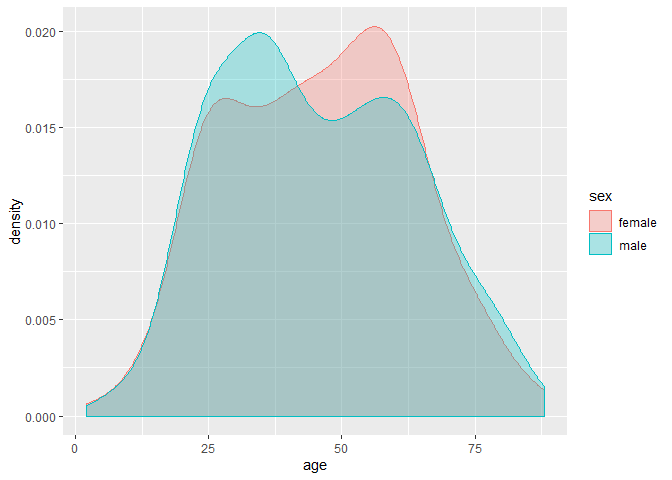
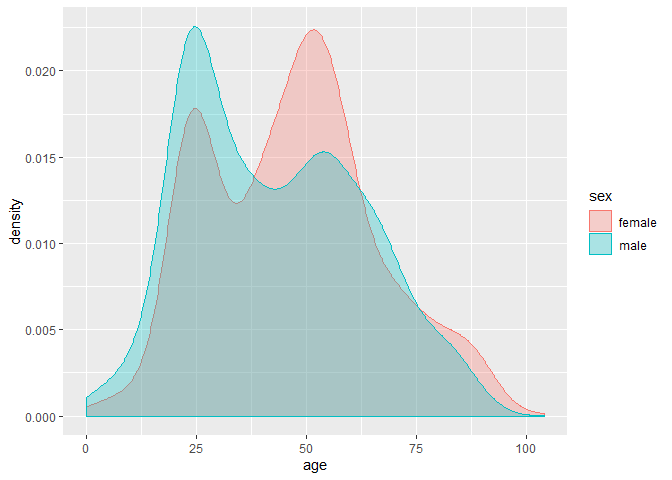
readme

diff --git a/README.md b/README.md
@@ -21,28 +21,26 @@ remotes::install_github("youngwoos/corona19")
 ``` r
 library(corona19)
 
-# state
-state <- getdata("state")
-state
-#> # A tibble: 45 x 11
-#>    date       acc_test acc_negative acc_confirmed acc_released acc_deceased
-#>    <date>        <int>        <int>         <int>        <int>        <int>
-#>  1 2020-03-04   146541       118965          5766           88           35
-#>  2 2020-03-03   136707       102965          5328           41           32
-#>  3 2020-03-02   125851        85484          4812           34           28
-#>  4 2020-03-01   109591        71580          4212           31           22
-#>  5 2020-02-29    94055        55723          3150           28           17
-#>  6 2020-02-28    81167        48593          2337           27           16
-#>  7 2020-02-27    66652        39318          1766           27           13
-#>  8 2020-02-26    53553        31576          1261           24           12
-#>  9 2020-02-25    40304        25447           977           24           12
-#> 10 2020-02-24    32756        20292           833           24            8
-#> # ... with 35 more rows, and 5 more variables: new_test <int>,
-#> #   new_negative <int>, new_confirmed <int>, new_released <int>,
-#> #   new_deceased <int>
+# time
+time <- getdata("time")
+time
+#> # A tibble: 57 x 7
+#>    date        time   test negative confirmed released deceased
+#>    <date>     <int>  <int>    <int>     <int>    <int>    <int>
+#>  1 2020-03-16     0 274504   251297      8236     1137       75
+#>  2 2020-03-15     0 268212   243778      8126      834       75
+#>  3 2020-03-14     0 261335   235615      8086      714       72
+#>  4 2020-03-13     0 248647   222728      7979      510       67
+#>  5 2020-03-12     0 234998   209402      7869      333       66
+#>  6 2020-03-11     0 222395   196100      7755      288       60
+#>  7 2020-03-10     0 210144   184179      7513      247       54
+#>  8 2020-03-09     0 196618   171778      7382      166       51
+#>  9 2020-03-08     0 188518   162008      7134      130       50
+#> 10 2020-03-07     0 178189   151802      6767      118       44
+#> # ... with 47 more rows
 
-library(ggplot2)
-ggplot(data = state, aes(x = date, y = acc_confirmed)) + 
+library(ggplot2) 
+ggplot(data = time, aes(x = date, y = confirmed)) + 
   geom_area(color="darkblue", fill="lightblue") + 
   scale_x_date(date_breaks = "weeks" , date_labels = "%m-%d")
 ```
@@ -54,21 +52,22 @@ ggplot(data = state, aes(x = date, y = acc_confirmed)) +
 # patient
 patient <- getdata("patient") 
 patient
-#> # A tibble: 5,766 x 14
-#>       id sex   birth_year country region group infection_reason infection_order
-#>    <int> <chr>      <int> <chr>   <chr>  <chr> <chr>                      <int>
-#>  1     1 fema~       1984 China   filte~ <NA>  visit to Wuhan                 1
-#>  2     2 male        1964 Korea   filte~ <NA>  visit to Wuhan                 1
-#>  3     3 male        1966 Korea   capit~ <NA>  visit to Wuhan                 1
-#>  4     4 male        1964 Korea   capit~ <NA>  visit to Wuhan                 1
-#>  5     5 male        1987 Korea   capit~ <NA>  visit to Wuhan                 1
-#>  6     6 male        1964 Korea   capit~ <NA>  contact with pa~               2
-#>  7     7 male        1991 Korea   capit~ <NA>  visit to Wuhan                 1
-#>  8     8 fema~       1957 Korea   Jeoll~ <NA>  visit to Wuhan                 1
-#>  9     9 fema~       1992 Korea   capit~ <NA>  contact with pa~               2
-#> 10    10 fema~       1966 Korea   capit~ <NA>  contact with pa~               3
-#> # ... with 5,756 more rows, and 6 more variables: infected_by <int>,
-#> #   contact_number <int>, confirmed_date <date>, released_date <date>,
+#> # A tibble: 2,119 x 18
+#>    patient_id global_num sex   birth_year age   country province city  disease
+#>         <dbl>      <int> <chr>      <int> <chr> <chr>   <chr>    <chr> <lgl>  
+#>  1 1000000001          2 male        1964 50s   Korea   Seoul    Gang~ NA     
+#>  2 1000000002          5 male        1987 30s   Korea   Seoul    Jung~ NA     
+#>  3 1000000003          6 male        1964 50s   Korea   Seoul    Jong~ NA     
+#>  4 1000000004          7 male        1991 20s   Korea   Seoul    Mapo~ NA     
+#>  5 1000000005          9 fema~       1992 20s   Korea   Seoul    Seon~ NA     
+#>  6 1000000006         10 fema~       1966 50s   Korea   Seoul    Jong~ NA     
+#>  7 1000000007         11 male        1995 20s   Korea   Seoul    Jong~ NA     
+#>  8 1000000008         13 male        1992 20s   Korea   Seoul    etc   NA     
+#>  9 1000000009         19 male        1983 30s   Korea   Seoul    Song~ NA     
+#> 10 1000000010         21 fema~       1960 60s   Korea   Seoul    Seon~ NA     
+#> # ... with 2,109 more rows, and 9 more variables: infection_case <chr>,
+#> #   infection_order <int>, infected_by <chr>, contact_number <int>,
+#> #   symptom_onset_date <chr>, confirmed_date <date>, released_date <date>,
 #> #   deceased_date <date>, state <chr>
 
 ggplot(data = patient, aes(x = 2020-birth_year, fill = sex, colour = sex)) + 
@@ -84,120 +83,40 @@ ggplot(data = patient, aes(x = 2020-birth_year, fill = sex, colour = sex)) +
 route <- getdata("route") 
 
 library(dplyr)
-cnt_visit <- route %>% 
-  count(visit, sort = T) %>% 
+cnt_province <- route %>% 
+  count(province, sort = T) %>% 
   head(10)
 
-cnt_visit
-#> # A tibble: 10 x 2
-#>    visit                 n
-#>    <chr>             <int>
-#>  1 hospital_isolated    19
-#>  2 airport              13
-#>  3 restaurant           13
-#>  4 hospital             10
-#>  5 clinic                8
-#>  6 etc                   7
-#>  7 train_station         7
-#>  8 market                5
-#>  9 store                 5
-#> 10 hair_salon            3
+cnt_province
+#> # A tibble: 8 x 2
+#>   province         n
+#>   <chr>        <int>
+#> 1 Seoul           76
+#> 2 Gyeonggi-do     55
+#> 3 Incheon         17
+#> 4 Daegu           11
+#> 5 Gangwon-do       5
+#> 6 Gwangju          5
+#> 7 Jeollabuk-do     4
+#> 8 Jeollanam-do     2
 
-ggplot(cnt_visit, aes(x = reorder(visit, n), y = n)) + 
+ggplot(cnt_province, aes(x = reorder(province, n), y = n)) + 
   geom_col() + 
   coord_flip() +
-  xlab("visit")
+  xlab("province")
 ```
 
 <img src="man/figures/README-example-3.png" width="100%" />
 
 ## Dataset infomation
 
-### 1\. state
+[dataset-detailed-description.ipynb](https://github.com/jihoo-kim/Data-Science-for-COVID-19/blob/master/dataset-detailed-description.ipynb)
 
-  - **date**: 일자
-  - **acc\_test**: 누적 검사 수 (진행 중인 검사 포함)
-  - **acc\_negative**: 누적 음성 결과 수
-  - **acc\_confirmed**: 누적 양성 결과 수 (확진)
-  - **acc\_released**: 누적 격리 해제 수
-  - **acc\_deceased**: 누적 사망 수
-  - **new\_test**: 신규 검사 수
-  - **new\_negative**: 신규 음성 결과 수
-  - **new\_confirmed**: 신규 양성 결과 수 (확진)
-  - **new\_released**: 신규 격리 해제 수
-  - **new\_deceased**: 신규 사망 수
+`getdata()` import 3 of these datasets.
 
-### 2\. patient
-
-  - **id**: 확진자의 id (n번째 확진자)
-  - **sex**: 성별
-  - **birth\_year**: 출생 연도
-  - **country**: 국적
-      - Korea: 대한민국
-      - China: 중국
-      - Mongolia: 몽골
-  - **region**: 주 활동 지역 (광역시/도 단위)
-      - capital area: 수도권 (서울특별시/인천광역시/경기도)
-      - filtered at airport: 공항 검역 이후 활동하지 않은 경우
-      - Busan: 부산광역시
-      - Daegu: 대구광역시
-      - Daejeon: 대전광역시
-      - Gwangju: 광주광역시
-      - Ulsan: 울산광역시
-      - Gangwon-do: 강원도
-      - Chungcheongbuk-do: 충청북도
-      - Chungcheongnam-do: 충청남도
-      - Jeollabuk-do: 전라북도
-      - Jeollanam-do: 전라남도
-      - Gyeongsangbuk-do: 경상북도
-      - Gyeongsangnam-do: 경상남도
-      - Jeju-do: 제주도
-  - **group**: 특정 집단 관련
-      - Shincheonji Church: 신천지 관련
-      - Cheongdo Daenam Hospital: 청도대남병원 관련
-      - Eunpyeong St. Mary’s Hospital: 은평성모병원 관련
-      - Onchun Church: 온천 교회 관련
-      - Myungsung Church: 명성 교회 관련
-      - Pilgrimage: 이스라엘 성지순례 관련
-  - **infection\_reason**: 감염 경로
-      - visit to ooo: 감염 위험 나라/도시 방문
-      - contact with patient: 국내 확진자와 접촉
-      - contact with patient in ooo: 해외 확진자와 접촉
-      - residence in Wuhan: 중국 우한 거주
-      - pilgrimage to Israel: 이스라엘 성지순례
-  - **infection\_order**: 감염 차수 (n차 감염)
-  - **infected\_by**: 해당 확진자의 감염원 id
-  - **contact\_number**: 접촉자 수
-  - **confirmed\_date**: 확진 일자
-  - **released\_date**: 퇴원 일자 (격리 해제 일자)
-  - **deceased\_date**: 사망 일자
-  - **state**: 상태
-      - isolated: 입원 (격리)
-      - released: 퇴원 (격리 해제)
-      - deceased: 사망
-
-### 3\. route
-
-  - **id**: 확진자의 id (n번째 확진자)
-  - **date**: 일자
-  - **province**: 특별시/광역시/도
-  - **city**: 시/군/구
-  - **visit**: 방문한 장소 (종류)
-      - airport: 공항
-      - hospital\_isolated: 격리된 병원
-      - hospital: 대형급 병원 또는 보건소
-      - clinic: 의원급 병원
-      - hotel: 호텔
-      - store: 소형 가게
-      - market: 대형 마트
-      - restaurant: 식당
-      - cafe: 카페
-      - company:  
-      - bus\_terminal: 버스 터미널
-      - train\_station: 기차역
-      - movie\_theater: 영화관
-      - hair\_salon: 미용실
-      - church: 교회
-      - etc: 기타 방문 장소
-  - **latitude**: 위도
-  - **longitude**: 경도
+  - `patient` from
+    [PatientInfo.csv](https://github.com/jihoo-kim/Data-Science-for-COVID-19/raw/master/dataset/Patient/PatientInfo.csv)
+  - `route` from
+    [PatientRoute.csv](https://github.com/jihoo-kim/Data-Science-for-COVID-19/raw/master/dataset/Patient/PatientRoute.csv)
+  - `time` from
+    [Time.csv](https://github.com/jihoo-kim/Data-Science-for-COVID-19/raw/master/dataset/Time/Time.csv)
